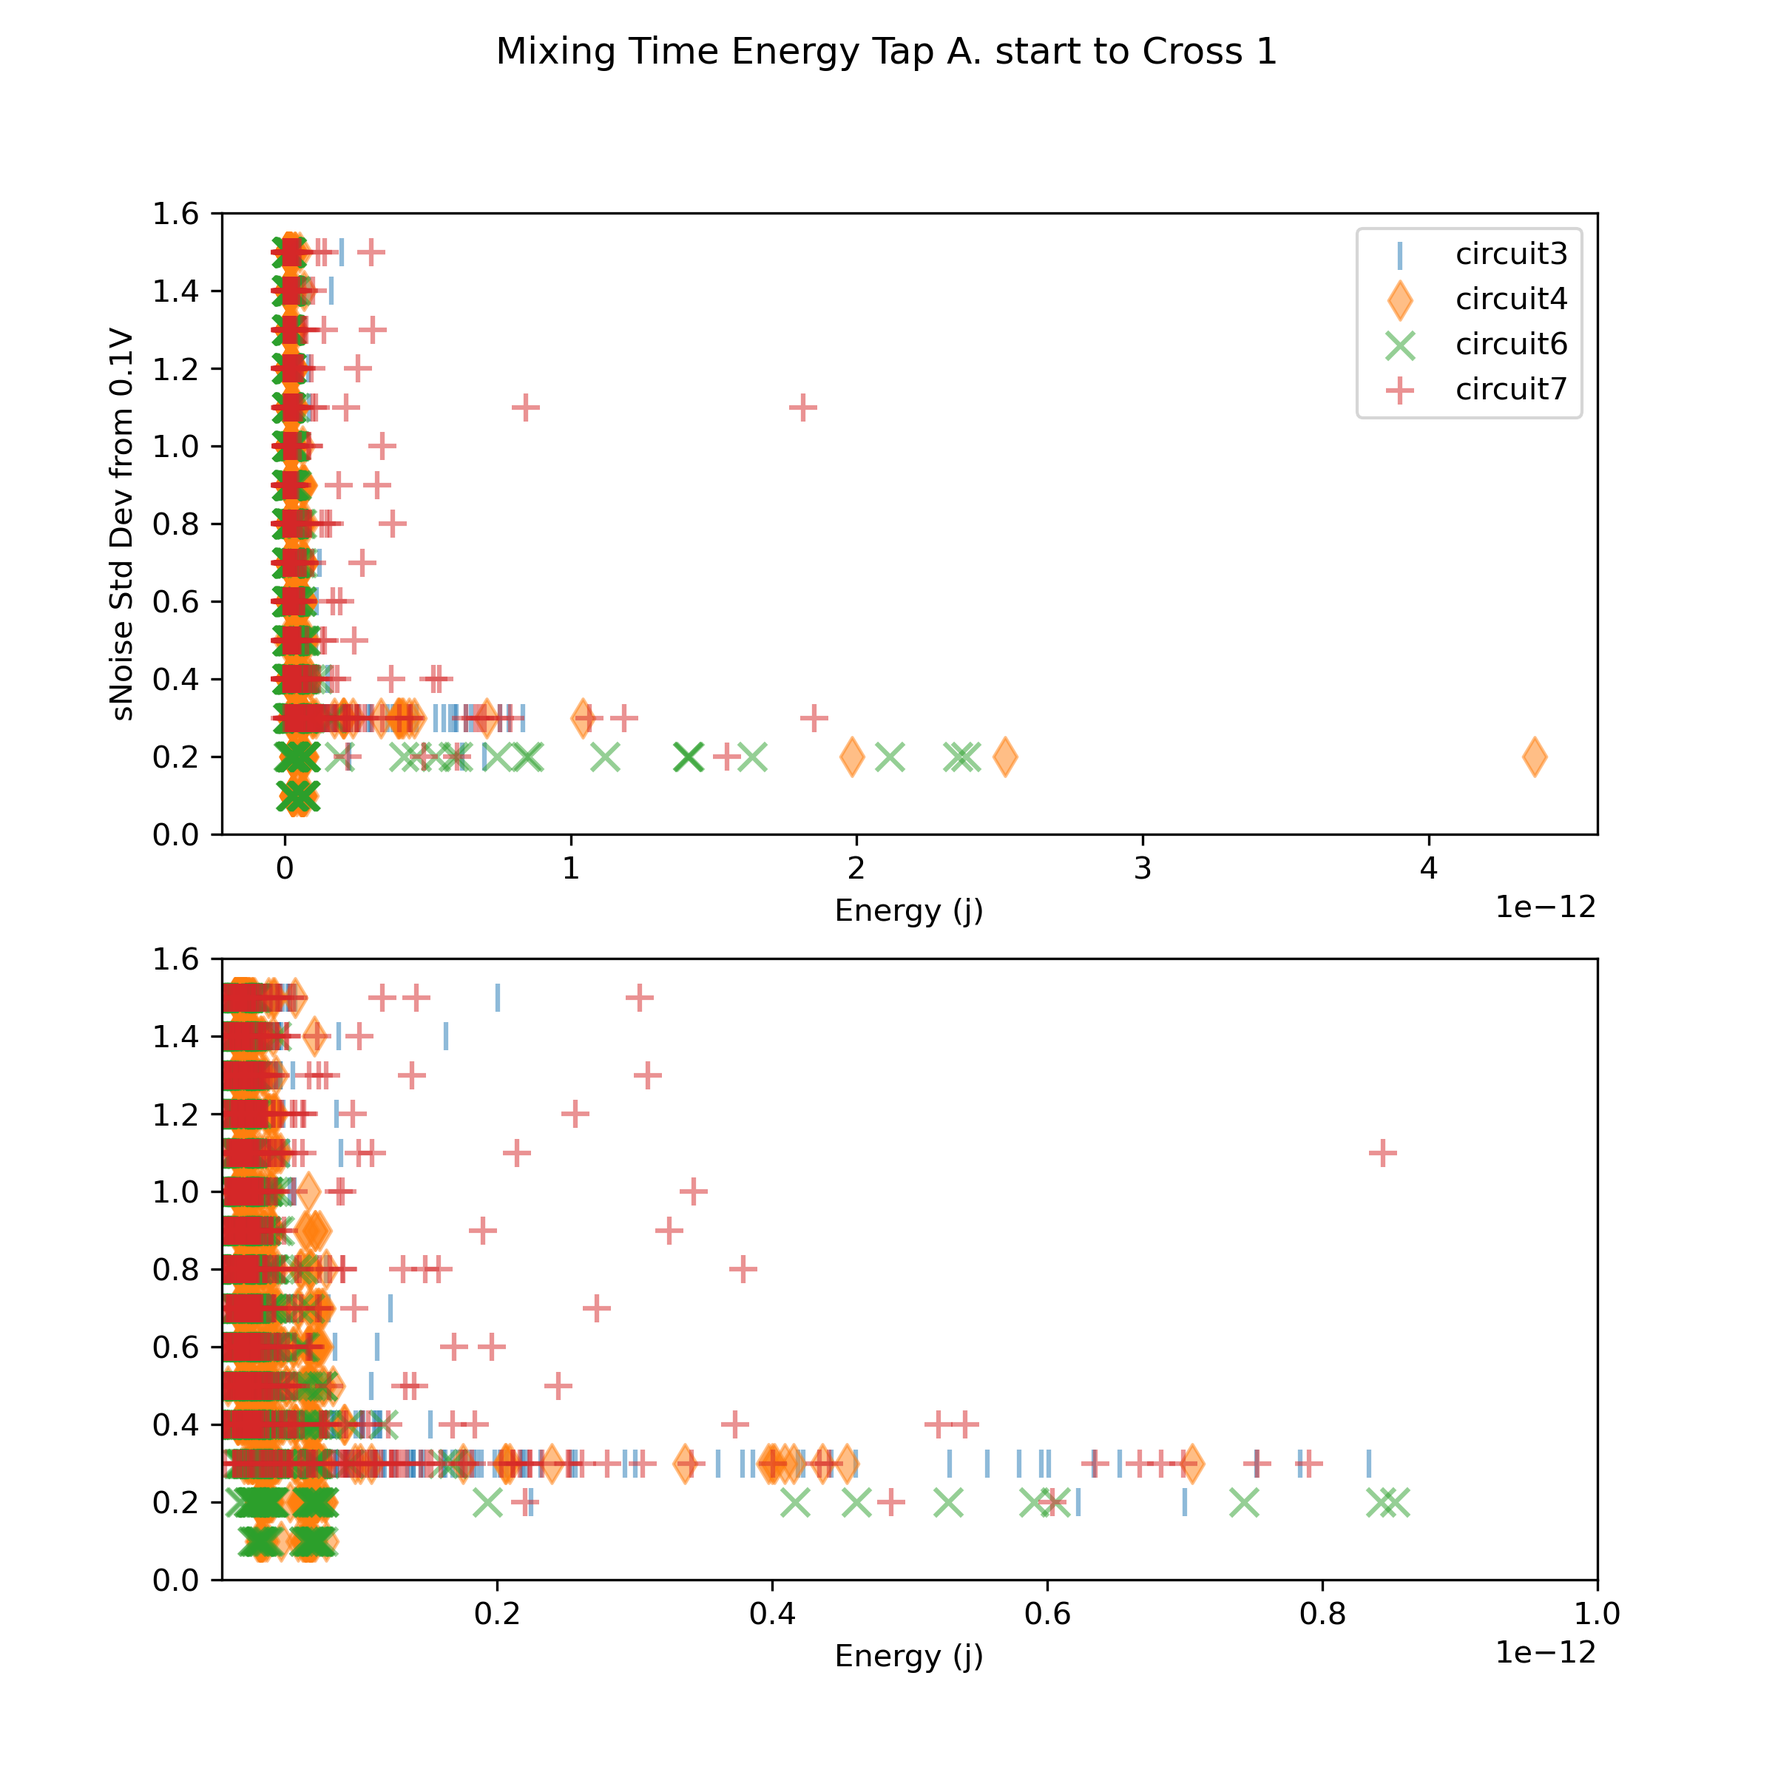
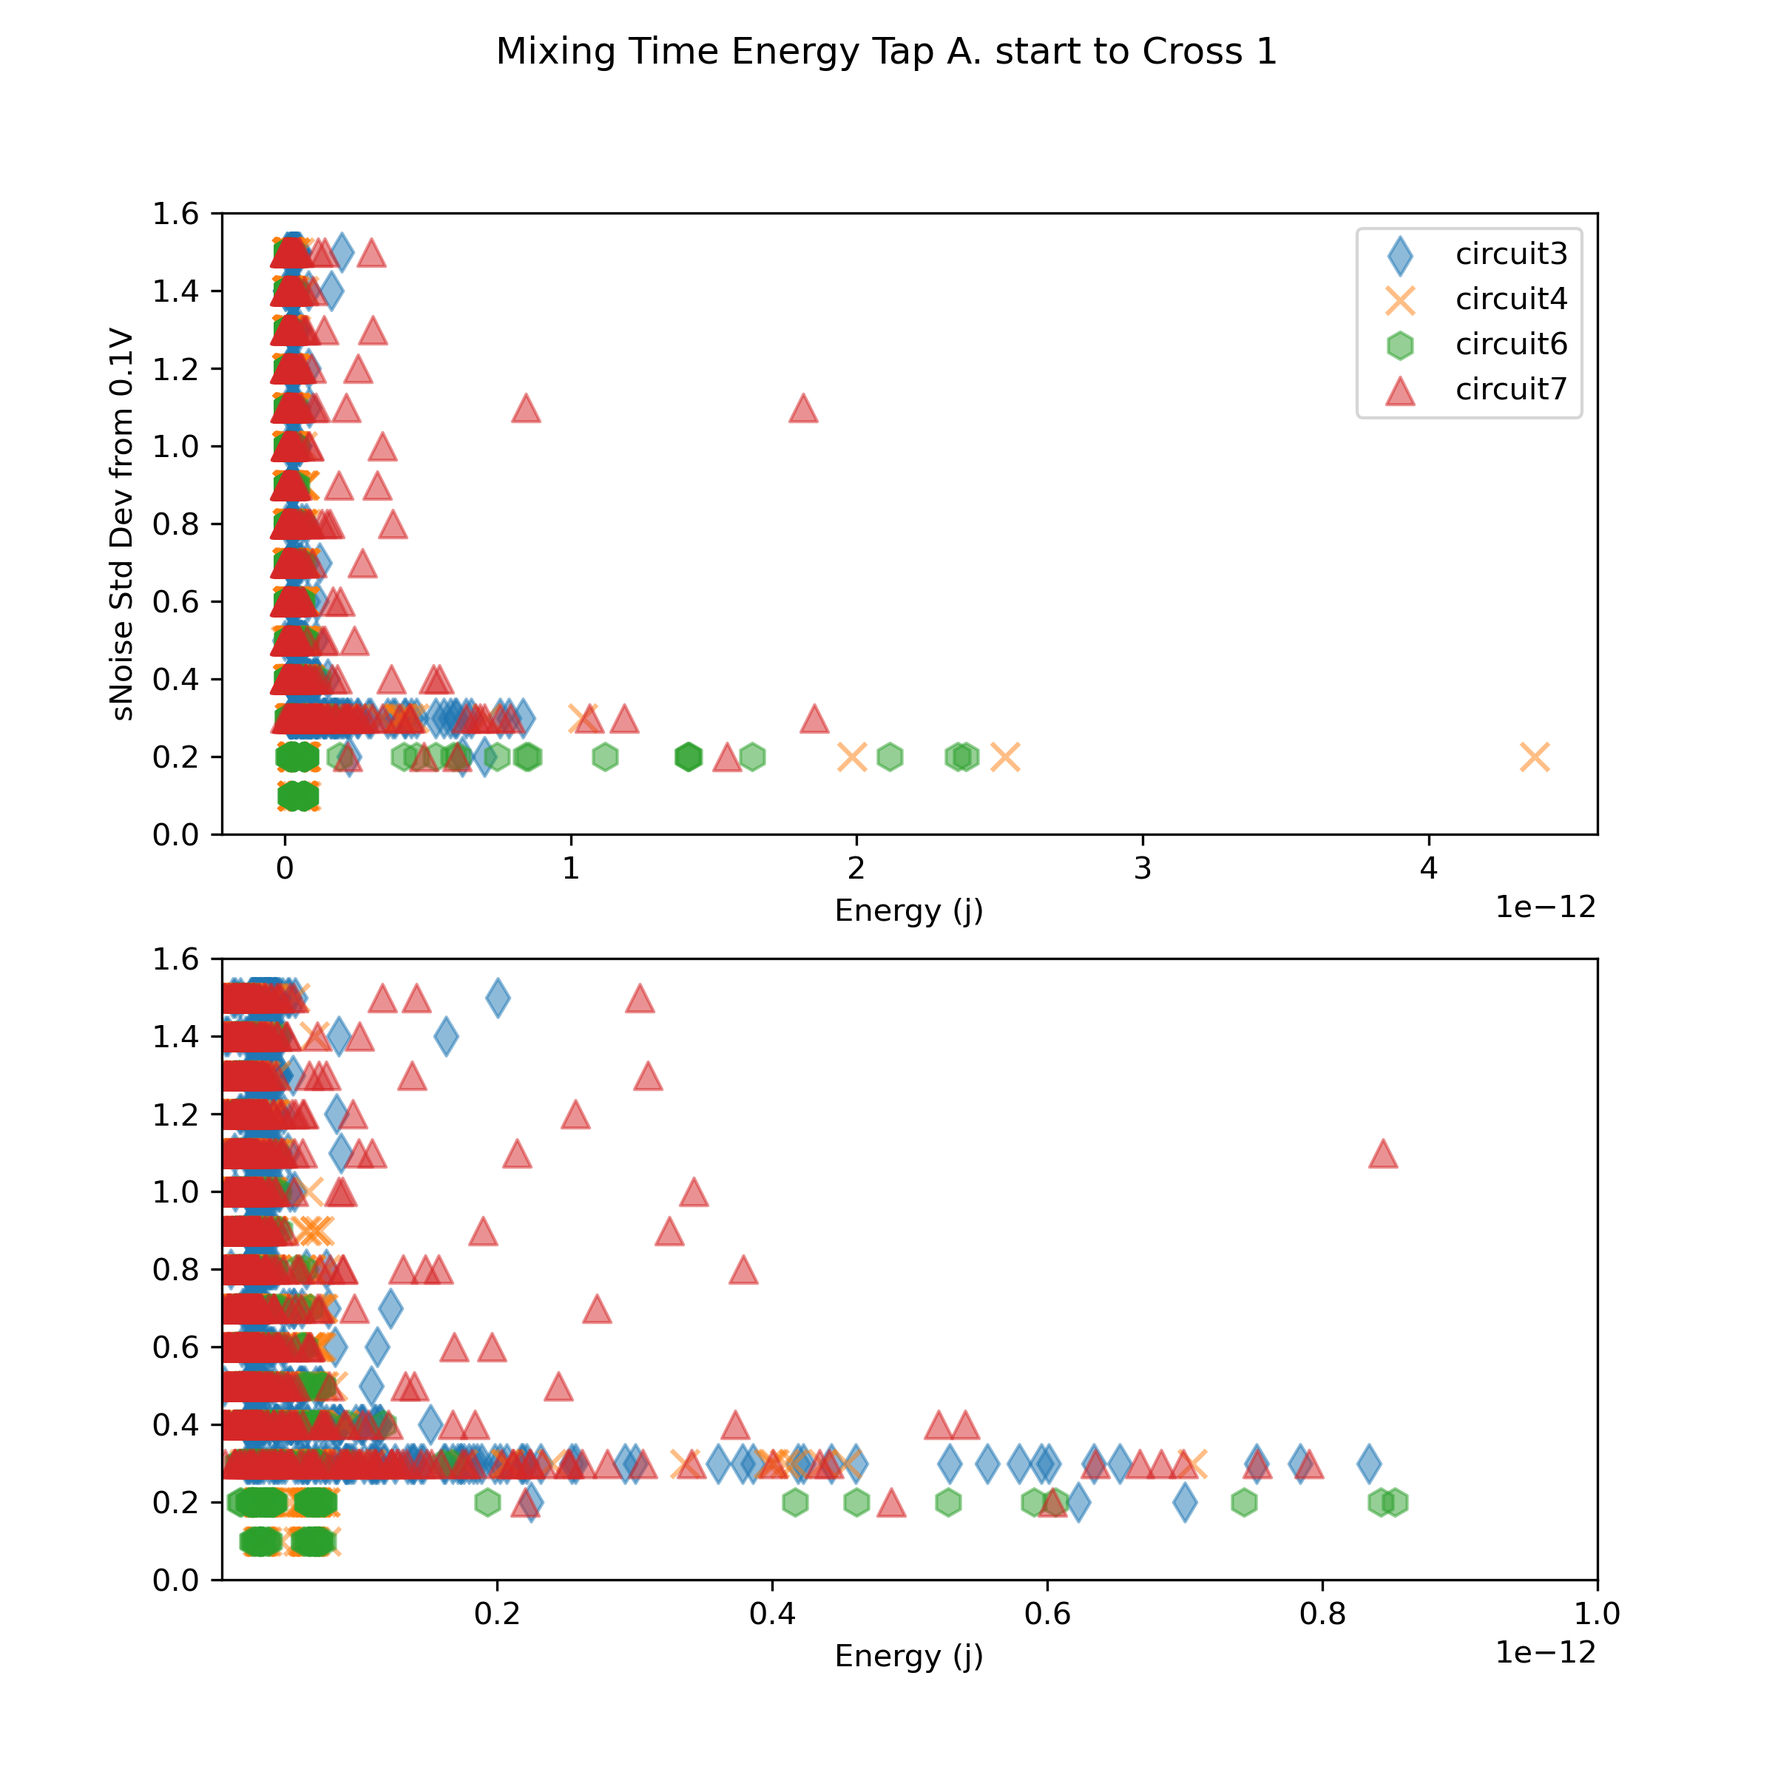
mixing time tau and energy

diff --git a/exp_mixingTime/read_events_exp_mixing_time_energy_all_circuits.py b/exp_mixingTime/read_events_exp_mixing_time_energy_all_circuits.py
@@ -2,17 +2,18 @@ import os
 import numpy as np
 import statistics
 import matplotlib.pyplot as plt
+import statistics
 
 #paths_a1_to_a4 = ['circuit2/','circuit3/','circuit4/','circuit5/','circuit6/','circuit7/','circuit8/','circuit9/']
 paths_a1_to_a4 = ['circuit3/','circuit4/','circuit6/','circuit7/']
-iavg_a1_to_a4_meas_cir_labels = ['iavg ','iavg_from_response_a1_to_response_a4','iavg_from_response_a1_to_response_a4',
-						 'iavg ','iavg_from_response_a1_to_response_a4',
-						'iavg_from_response_a1_to_response_a4','iavg ',"iavg "]
+iavg_a1_to_a4_meas_cir_labels = ['iavg_from_response_a1_to_response_a4','iavg_from_response_a1_to_response_a4',
+						 'iavg_from_response_a1_to_response_a4',
+						'iavg_from_response_a1_to_response_a4']
 #paths_b1_to_b4 = ['circuit2/','circuit3/','circuit4/','circuit5/','circuit6/','circuit7/','circuit8/','circuit9/']
 paths_b1_to_a1 = ['circuit3/','circuit4/','circuit6/','circuit7/']
-iavg_b1_to_b4_meas_cir_labels = ['iavg ','iavg_from_response_b1_to_response_b4','iavg_from_response_b1_to_response_b4',
-						 'iavg ','iavg_from_response_b1_to_response_b4',
-						'iavg_from_response_b1_to_response_b4','iavg ',"iavg "]
+iavg_b1_to_b4_meas_cir_labels = ['iavg_from_response_b1_to_response_b4','iavg_from_response_b1_to_response_b4',
+						'iavg_from_response_b1_to_response_b4',
+						'iavg_from_response_b1_to_response_b4']
 
 paths_start_to_a1 = ['circuit3/','circuit4/','circuit6/','circuit7/']
 iavg_start_to_a1_meas_cir_labels = ['iavg_start_to_response_a1',
@@ -25,7 +26,7 @@ iavg_start_to_b1_meas_cir_labels = ['iavg_start_to_response_b1',
 						 'iavg ','iavg_start_to_response_b1',
 						'iavg_start_to_response_b1']
 
-circuit_marker = ["|","d","x","+","h","^","*","."]
+circuit_marker = ["d", "x", "h", "^"]
 
 filenames = ["a","b","c","d","e","f","g","h","i","j","k","l","m","n","o","p","q","r"]
 label = {"a":0.1, "b":0.2,"c":0.3,"d":0.4,"e":0.5,"f":0.6,"g":0.7,"h":0.8,"i":0.9,"j":1.0,"k":1.1,"l":1.2,"m":1.3,
@@ -35,6 +36,106 @@ label_to_index = {"0.1":0, "0.2": 1, "0.3": 2, "0.4": 3, "0.5": 4, "0.6": 5, "0.
 
 datapoints = 15
 
+def energy_plot_avg_and_std_deviation(energy_x, energy_y,paths,title,plot_file_name):
+	energy_avg_y = []
+	energy_avg_scatter_y = []
+	energy_avg_x = []
+	energy_samples_x = []
+	energy_samples_count = []
+	energy_std_dev = []
+	
+	i = 0
+	energy_sets_y = []
+	while i < len(energy_y):
+		#print(energy_y[i])
+		j = 0
+		energy_sets_y.append( set() )
+		energy_avg_x.append([])
+		energy_avg_scatter_y.append([])
+		while j < len(energy_y[i]):
+			energy_sets_y[i].add(energy_y[i][j])
+			j += 1
+		i += 1
+	
+	i = 0
+	while i < len(energy_y):
+		for e in energy_sets_y[i]:
+			#energy_avg_x[i].append([])
+			energy_avg_scatter_y[i].append([])
+		i += 1
+	
+	i = 0
+	while i < len(energy_y):
+		energy_avg_y.append([])
+		energy_std_dev.append([])
+		energy_samples_x.append([])
+		energy_samples_count.append([])
+		for e in sorted(energy_sets_y[i]):
+			energy_avg_y[i].append(e)
+			energy_samples_x[i].append([])
+			energy_samples_count[i].append(0)
+		i += 1
+		
+	#print("a",energy_avg_y)
+	i = 0
+	while i < len(energy_x):
+		energy_avg_y_key = {}
+		j = 0
+		for each in energy_avg_y[i]:
+			energy_avg_y_key[each] = j
+			j += 1
+		#print("boo",energy_avg_y_key)
+		j = 0
+		while j < len( energy_y[i] ):
+			#print(energy_y[i][j])
+			#print(energy_samples_x)
+			energy_samples_x[i][ energy_avg_y_key[energy_y[i][j]] ].append( energy_x[i][j])
+			#print(energy_samples_count[i][ energy_avg_y_key[energy_y[i][j]] ])
+			energy_samples_count[i][ energy_avg_y_key[energy_y[i][j]] ] += 1
+			energy_avg_scatter_y[i][ energy_avg_y_key[energy_y[i][j]] ].append(energy_y[i][j])
+			j += 1
+		j = 0
+		while j < len(energy_avg_y[i]):
+			energy_avg_x[i].append(sum(energy_samples_x[i][j]) / energy_samples_count[i][j])
+			j += 1
+		j = 0
+		while j < len(energy_avg_y[i]):
+			#print(energy_samples_x[i][j])
+			energy_std_dev[i].append(statistics.stdev(energy_samples_x[i][j]))
+			j += 1
+		i += 1
+	#print(energy_avg_x)
+	#print(energy_avg_y)
+	#print(energy_std_dev)
+	fig, axs = plt.subplots(2, 1, figsize=(8, 8), sharex=False, sharey=True)
+	i = 0
+	print(len(energy_avg_x),len(energy_avg_y))
+	while i < len(energy_avg_x):
+		print('len(energy_avg_x[i])',len(energy_avg_x[i]))
+		print(energy_avg_x[i])
+		print('len(energy_avg_y[i])',len(energy_avg_y[i]))
+		print(energy_avg_y[i])
+		print('len(energy_avg_scatter_y[i])',len(energy_avg_scatter_y[i]))
+		print('len(circuit_marker)',len(circuit_marker))
+		print(i)
+		axs[0].scatter(energy_avg_x[i], energy_avg_y[i], alpha=0.5, marker=circuit_marker[i], s=80)
+		axs[0].errorbar(energy_avg_x[i], energy_avg_y[i], label=paths[i], xerr=energy_std_dev[i], 
+		fmt=circuit_marker[i])
+		
+		axs[1].scatter(energy_avg_x[i], energy_avg_y[i], alpha=0.5, marker=circuit_marker[i], s=80)
+		axs[1].errorbar(energy_avg_x[i], energy_avg_y[i], label=paths[i], xerr=energy_std_dev[i],fmt=circuit_marker[i])
+		axs[1].set_xlim(0, 2.5e-13)
+		i += 1
+	axs[0].legend()
+	axs[0].set_ylabel("sNoise Std Dev from 0.1V")
+	axs[1].set_ylabel("sNoise Std Dev from 0.1V")
+	axs[0].set_xlabel("Energy (j)")
+	axs[1].set_xlabel("Energy (j)")
+	fig.suptitle(title)
+	plt.savefig('../avg_error_bar_' + plot_file_name, dpi=300)
+	plt.close()
+		
+	
 # Gather data points from results files (format data.txt)
 def energy_plot_by_circuit(iavg_meas_cir_labels,plot_file_name,paths,title):
 	energy_tap_a_cross1_to_cross4_x = []
@@ -53,44 +154,13 @@ def energy_plot_by_circuit(iavg_meas_cir_labels,plot_file_name,paths,title):
 		for name_o_file in files:
 			f = open(path+name_o_file,"r")
 			lab = name_o_file.split(".")[0][-1]
-			# ra1_float_ns = 0.0
-			# ra4_float_ns = 0.0
-			# tdiff_check = 0.0
-			# ra1_bool = False
-			# ra4_bool = False
-			# tdiff_float = 0.0
-			# iavg_float = 0.0
-			# iavg_from_float_ns = 0.0
-			# iavg_to_float_ns = 0.0
-			# iavg_tdiff_float_ns = 0.0
 			for line in f:
-				#print(line.split())
-				# if line.startswith("responsetimea1"):
-				# 	line_split = line.split()
-				# 	#print(circuit_label, name_o_file, line_split, len(line_split))
-				# 	ra1_float_ns = float(line_split[2]) * 1000000000.0
-				# 	ra1_bool = True
-				# if line.startswith("responsetimea4"):
-				# 	line_split = line.split()
-				# 	#print(circuit_label, name_o_file, line_split, len(line_split))
-				# 	ra4_float_ns = float(line_split[2]) * 1000000000.0
-				# 	ra4_bool = True
-				# if line.startswith("tdiff "):
-				# 	line_split = line.split()
-				# 	#print(circuit_label, name_o_file, line_split, len(line_split))
-				# 	tdiff_float_ns = float(line_split[2]) * 1000000000.0
-				# 	tdiff_float = float(line_split[2])
-				# if line.startswith("tdiffb"):
-				# 	line_split = line.split()
-				# 	#print(circuit_label, name_o_file, line_split, len(line_split))
 				if line.startswith(iavg_meas_cir_label):
 					line_split = line.split()
-					print(circuit_label, name_o_file, line_split, len(line_split))
 					if (len(line_split) == 6):
 						iavg_float = float(line_split[1])
 						iavg_from_float_ns = float(line_split[3]) * 1000000000.0
 						iavg_to_float_ns = float(line_split[5]) * 1000000000.0
-						# iavg_tdiff_float_ns = iavg_to_float_ns - iavg_from_float_ns
 						iavg_tdiff_float = (iavg_to_float_ns - iavg_from_float_ns) / 1000000000.0
 						iavg_x[l_cnt].append(iavg_float)
 						iavg_y[l_cnt].append(label[lab])
@@ -98,19 +168,8 @@ def energy_plot_by_circuit(iavg_meas_cir_labels,plot_file_name,paths,title):
 						energy_tap_a_cross1_to_cross4_x[l_cnt].append(energy_in_joules)
 						energy_tap_a_cross1_to_cross4_y[l_cnt].append(label[lab])
 						print(circuit_label, name_o_file, iavg_float, iavg_tdiff_float, 'energy:', energy_in_joules)
-						# ra1_bool = False
-						# ra4_bool = False
-			#print(circuit_label, name_o_file,ra1_bool, ra4_bool)
-			# if ra1_bool and ra4_bool:
-			# 	if tdiff_float == 0.0:
-			# 		tdiff_float = abs((ra4_float_ns-ra1_float_ns)) /  1000000000.0
-			# 	energy_in_joules =  abs(1.8*iavg_float*tdiff_float)
-			# 	energy_tap_a_cross1_to_cross4_x[l_cnt].append(energy_in_joules)
-			# 	energy_tap_a_cross1_to_cross4_y[l_cnt].append(label[lab])
-			# 	print(circuit_label, name_o_file, iavg_float, tdiff_float, 'energy:',energy_in_joules)
 		l_cnt += 1
 	
-	circuit_marker = ["|","d","x","+","h","^","*","."]
 	fig, axs = plt.subplots(2, 1, figsize=(8, 8), sharex=False, sharey=True)
 	i = 0
 	while i < len(paths):
@@ -129,7 +188,11 @@ def energy_plot_by_circuit(iavg_meas_cir_labels,plot_file_name,paths,title):
 	fig.suptitle(title)
 	plt.savefig('../'+plot_file_name, dpi=300)
 	plt.close()
-	
+
+	energy_plot_avg_and_std_deviation(energy_tap_a_cross1_to_cross4_x, energy_tap_a_cross1_to_cross4_y, paths,title,
+									  plot_file_name)
+
+
 energy_plot_by_circuit(iavg_a1_to_a4_meas_cir_labels,
 					   'exp_mixing_time_energy_tapa_cross1_tapa_cross4.png',
 					   paths_a1_to_a4,

diff --git a/exp_mixingTime/read_events_tau_rc.py b/exp_mixingTime/read_events_tau_rc.py
@@ -1,0 +1,171 @@
+import os
+import numpy as np
+import statistics
+import matplotlib.pyplot as plt
+import statistics
+
+paths = ['circuit3/', 'circuit4/', 'circuit6/', 'circuit7/']
+
+circuit_marker = ["d", "x", "h", "^"]
+
+filenames = ["a", "b", "c", "d", "e", "f", "g", "h", "i", "j", "k", "l", "m", "n", "o", "p", "q", "r"]
+label = {"a": 0.1, "b": 0.2, "c": 0.3, "d": 0.4, "e": 0.5, "f": 0.6, "g": 0.7, "h": 0.8, "i": 0.9, "j": 1.0, "k": 1.1,
+         "l": 1.2, "m": 1.3,
+         "n": 1.4, "o": 1.5}
+label_to_index = {"0.1": 0, "0.2": 1, "0.3": 2, "0.4": 3, "0.5": 4, "0.6": 5, "0.7": 6, "0.8": 7, "0.9": 8, "1.0": 9,
+                  "1.1": 10, "1.2": 11, "1.3": 12, "1.4": 13, "1.5": 14}
+
+datapoints = 15
+
+
+def tau_plot_avg_and_std_deviation(tau_x, tau_y, paths, title, plot_file_name):
+    tau_avg_y = []
+    tau_avg_scatter_y = []
+    tau_avg_x = []
+    tau_samples_x = []
+    tau_samples_count = []
+    tau_std_dev = []
+
+    i = 0
+    tau_sets_y = []
+    while i < len(tau_y):
+        # print(tau_y[i])
+        j = 0
+        tau_sets_y.append(set())
+        tau_avg_x.append([])
+        tau_avg_scatter_y.append([])
+        while j < len(tau_y[i]):
+            tau_sets_y[i].add(tau_y[i][j])
+            j += 1
+        i += 1
+
+    i = 0
+    while i < len(tau_y):
+        for e in tau_sets_y[i]:
+            # tau_avg_x[i].append([])
+            tau_avg_scatter_y[i].append([])
+        i += 1
+
+    i = 0
+    while i < len(tau_y):
+        tau_avg_y.append([])
+        tau_std_dev.append([])
+        tau_samples_x.append([])
+        tau_samples_count.append([])
+        for e in sorted(tau_sets_y[i]):
+            tau_avg_y[i].append(e)
+            tau_samples_x[i].append([])
+            tau_samples_count[i].append(0)
+        i += 1
+
+    # print("a",tau_avg_y)
+    i = 0
+    while i < len(tau_x):
+        tau_avg_y_key = {}
+        j = 0
+        for each in tau_avg_y[i]:
+            tau_avg_y_key[each] = j
+            j += 1
+        # print("boo",tau_avg_y_key)
+        j = 0
+        while j < len(tau_y[i]):
+            # print(tau_y[i][j])
+            # print(tau_samples_x)
+            tau_samples_x[i][tau_avg_y_key[tau_y[i][j]]].append(tau_x[i][j])
+            # print(tau_samples_count[i][ tau_avg_y_key[tau_y[i][j]] ])
+            tau_samples_count[i][tau_avg_y_key[tau_y[i][j]]] += 1
+            tau_avg_scatter_y[i][tau_avg_y_key[tau_y[i][j]]].append(tau_y[i][j])
+            j += 1
+        j = 0
+        while j < len(tau_avg_y[i]):
+            tau_avg_x[i].append(sum(tau_samples_x[i][j]) / tau_samples_count[i][j])
+            j += 1
+        j = 0
+        while j < len(tau_avg_y[i]):
+            # print(tau_samples_x[i][j])
+            tau_std_dev[i].append(statistics.stdev(tau_samples_x[i][j]))
+            j += 1
+        i += 1
+    # print(tau_avg_x)
+    # print(tau_avg_y)
+    # print(tau_std_dev)
+    fig, axs = plt.subplots(2, 1, figsize=(8, 8), sharex=False, sharey=True)
+    i = 0
+    while i < len(tau_avg_x):
+        axs[0].scatter(tau_avg_x[i], tau_avg_y[i], alpha=0.5, marker=circuit_marker[i], s=80)
+        axs[0].errorbar(tau_avg_x[i], tau_avg_y[i], label=paths[i], xerr=tau_std_dev[i],
+                        fmt=circuit_marker[i])
+
+        axs[1].scatter(tau_avg_x[i], tau_avg_y[i], alpha=0.5, marker=circuit_marker[i], s=80)
+        axs[1].errorbar(tau_avg_x[i], tau_avg_y[i], label=paths[i], xerr=tau_std_dev[i], fmt=circuit_marker[i])
+        axs[1].set_xlim(0.010, 0.120)
+        i += 1
+    axs[0].legend()
+    axs[0].set_ylabel("sNoise Std Dev from 0.1V")
+    axs[1].set_ylabel("sNoise Std Dev from 0.1V")
+    axs[0].set_xlabel("tau (ns)")
+    axs[1].set_xlabel("tau (ns)")
+    fig.suptitle(title)
+    plt.savefig('../avg_error_bar_' + plot_file_name, dpi=300)
+    plt.close()
+
+
+# Gather data points from results files (format data.txt)
+def tau_plot_by_circuit(plot_file_name, paths, title):
+    tau_tap_a_cross1_to_cross2_x = []
+    tau_tap_a_cross1_to_cross2_y = []
+    l_cnt = 0
+    for path in paths:
+        tau_tap_a_cross1_to_cross2_x.append([])
+        tau_tap_a_cross1_to_cross2_y.append([])
+        circuit_label = path.strip("/")
+        files = os.listdir(path)
+        for name_o_file in files:
+            f = open(path + name_o_file, "r")
+            lab = name_o_file.split(".")[0][-1]
+            res_a1 = 0.0
+            res_a2 = 0.0
+            a1_bool = False
+            a2_bool = False
+            for line in f:
+                if line.startswith('responsetimea1'):
+                    line_split = line.split()
+                    print("A1", line_split)
+                    res_a1 = float(line_split[2]) * 1000000000.0
+                    a1_bool = True
+                if line.startswith('responsetimea2'):
+                    line_split = line.split()
+                    print("A2", line_split)
+                    a2_bool = True
+                    res_a2 = float(line_split[2]) * 1000000000.0
+            if (a1_bool and a2_bool == True):
+                tau_tap_a_cross1_to_cross2_x[l_cnt].append(res_a2-res_a1)
+                tau_tap_a_cross1_to_cross2_y[l_cnt].append(label[lab])
+        l_cnt += 1
+        
+    fig, axs = plt.subplots(2, 1, figsize=(8, 8), sharex=False, sharey=True)
+    i = 0
+    while i < len(paths):
+        axs[0].set_ylim(0, 1.6)
+        axs[0].scatter(tau_tap_a_cross1_to_cross2_x[i], tau_tap_a_cross1_to_cross2_y[i], alpha=0.5,
+                       label=paths[i].strip("/"), marker=circuit_marker[i], s=80)
+        #axs[0].set_xlim(0, 1e-9)
+        axs[1].scatter(tau_tap_a_cross1_to_cross2_x[i], tau_tap_a_cross1_to_cross2_y[i], alpha=0.5,
+                       label=paths[i].strip("/"), marker=circuit_marker[i], s=80)
+        axs[1].set_xlim(0, 0.2)
+        i += 1
+    axs[0].legend()
+    axs[0].set_ylabel("sNoise Std Dev from 0.1V")
+    axs[0].set_xlabel("tau (ns)")
+    axs[1].set_xlabel("tau (ns)")
+    fig.suptitle(title)
+    plt.savefig('../' + plot_file_name, dpi=300)
+    plt.close()
+
+    tau_plot_avg_and_std_deviation(tau_tap_a_cross1_to_cross2_x, tau_tap_a_cross1_to_cross2_y, paths, title,
+                                      plot_file_name)
+
+
+tau_plot_by_circuit('exp_mixing_time_tau_tapa_cross1_tapa_cross2.png',
+                       paths,
+                       'Tap A, Cross 1 to Cross 2')
